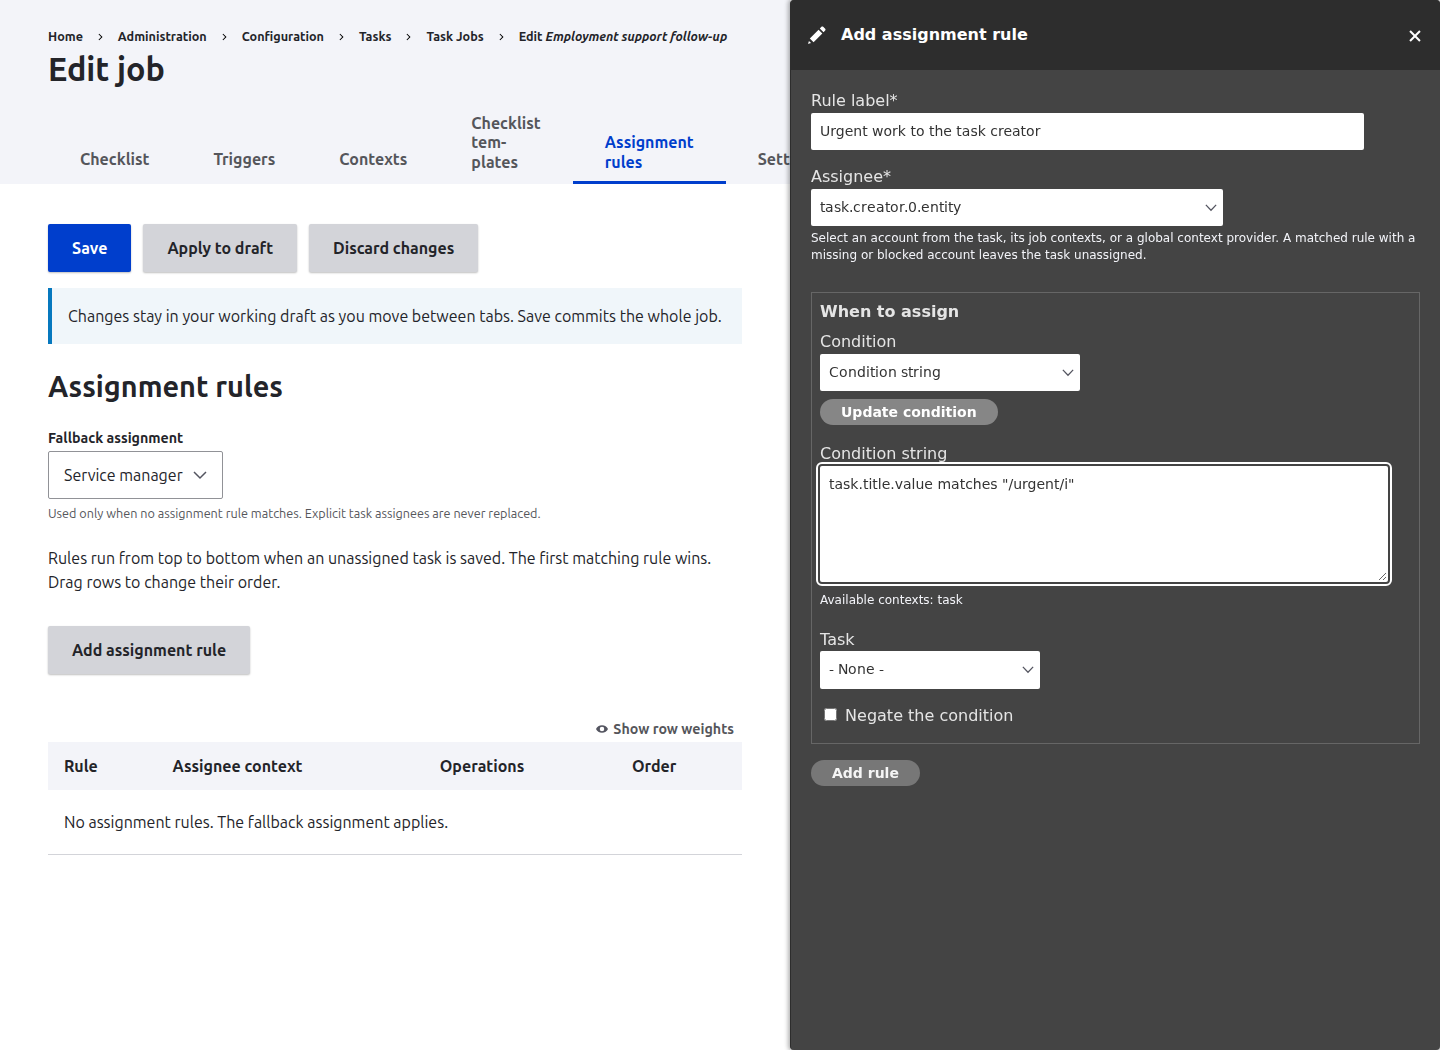
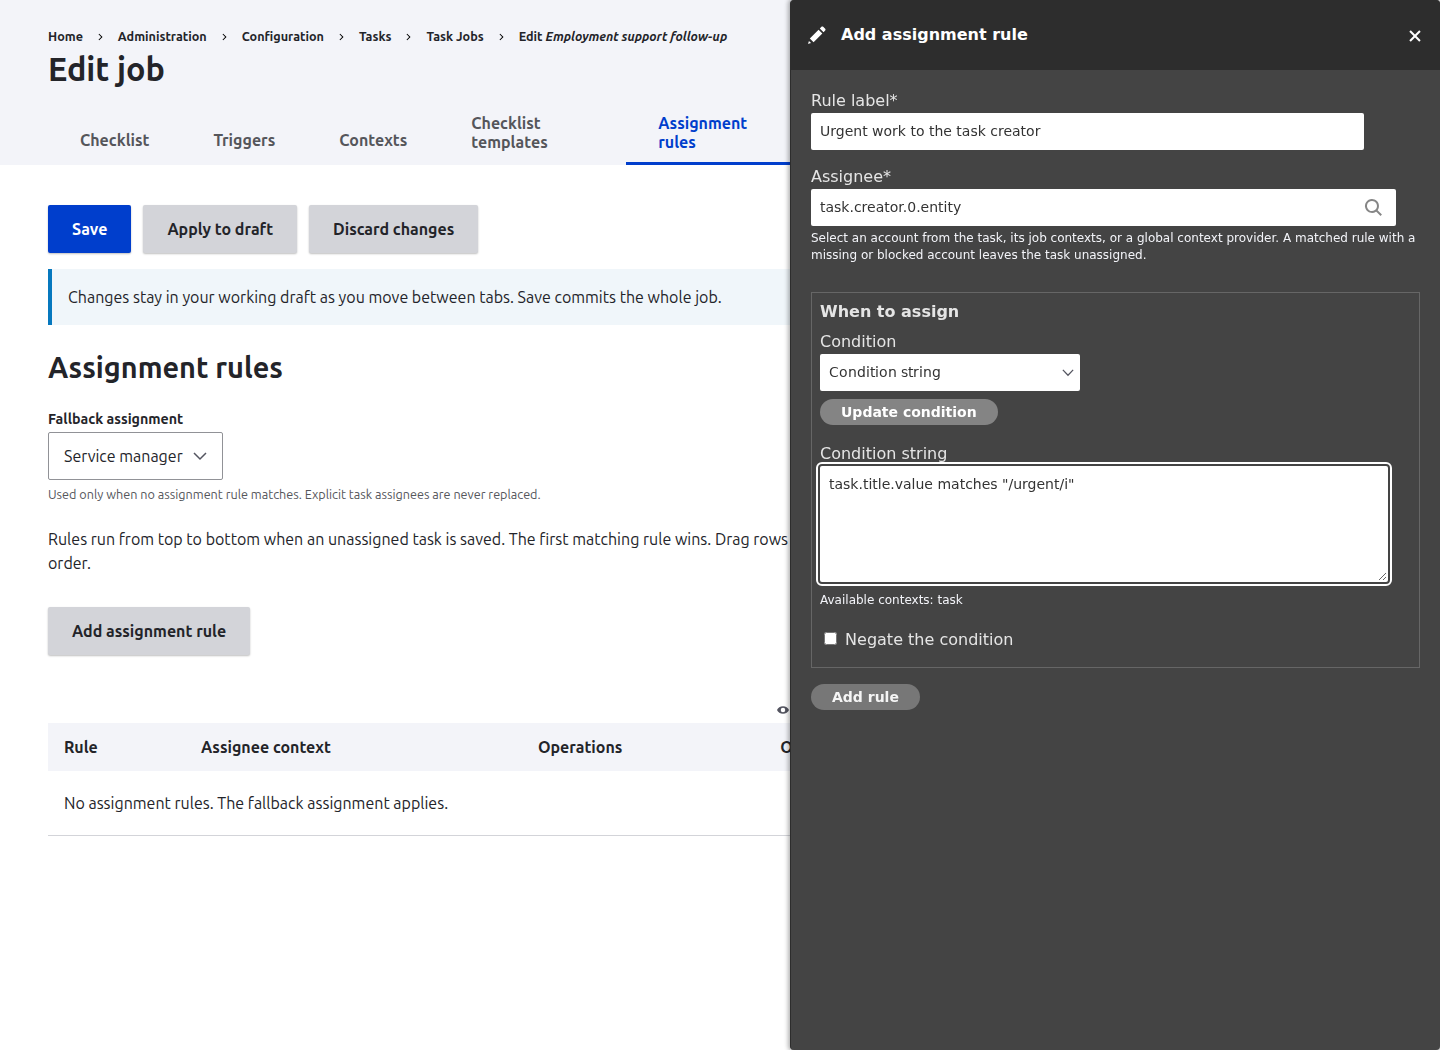
Bind caller condition contexts and use enhanced assignment widgets

diff --git a/modules/data/checklist/src/ChecklistConditionEvaluator.php b/modules/data/checklist/src/ChecklistConditionEvaluator.php
@@ -4,6 +4,8 @@ namespace Drupal\checklist;
 
 use Drupal\Component\Plugin\Exception\MissingValueContextException;
 use Drupal\Core\Condition\ConditionManager;
+use Drupal\Core\Condition\ConditionInterface;
+use Drupal\typed_data_plus\Plugin\Condition\ConditionGroup;
 use Drupal\Core\Plugin\Context\ContextHandlerInterface;
 use Drupal\typed_data_plus\Plugin\Condition\ContextAwareCondition;
 
@@ -46,18 +48,12 @@ class ChecklistConditionEvaluator {
     if (!is_string($configuration['id'] ?? NULL) || $configuration['id'] === '') {
       throw new \InvalidArgumentException('Checklist conditions require a plugin ID.');
     }
-    $condition = $this->conditionManager->createInstance($configuration['id'], $configuration);
     $contexts = $this->collector->collectRuntimeContexts($checklist);
     // Provide a simple root name for condition-string property traversal.
     $contexts['checklist'] = $contexts['checklist:entity'];
+    $condition = $this->createCondition($configuration, $contexts);
     try {
       if ($condition instanceof ContextAwareCondition) {
-        $definitions = [];
-        foreach ($contexts as $name => $context) {
-          $definitions[$name] = clone $context->getContextDefinition();
-          $definitions[$name]->setRequired(FALSE);
-        }
-        $condition->setExpectedContexts($definitions);
         $condition->setRuntimeContexts($contexts);
       }
       else {
@@ -68,6 +64,33 @@ class ChecklistConditionEvaluator {
     catch (MissingValueContextException) {
       return NULL;
     }
+  }
+
+  /**
+   * Creates a condition with fixed caller contexts, including nested groups.
+   *
+   * Workflow-supplied contexts are sources, not remappable plugin inputs.
+   * Intrinsic inputs declared by a plugin retain normal context mapping.
+   */
+  public function createCondition(array $configuration, array $contexts, int $depth = 0): ConditionInterface {
+    if ($depth >= 64) {
+      throw new \InvalidArgumentException('Condition groups are nested too deeply.');
+    }
+    $condition = $this->conditionManager->createInstance($configuration['id'], $configuration);
+    if ($condition instanceof ContextAwareCondition) {
+      $definitions = array_map(static fn($context) => (clone $context->getContextDefinition())->setRequired(FALSE), $contexts);
+      $condition->setExpectedContexts($definitions);
+      $fixed = array_diff_key($contexts, $condition->getPluginDefinition()['context_definitions'] ?? []);
+      $condition->setContextMapping(array_diff_key($condition->getContextMapping(), $fixed));
+    }
+    if ($condition instanceof ConditionGroup) {
+      $configuration = $condition->getConfiguration();
+      foreach ($configuration['conditions'] as $key => $child) {
+        $configuration['conditions'][$key] = $this->createCondition($child, $contexts, $depth + 1)->getConfiguration();
+      }
+      $condition->setConfiguration($configuration);
+    }
+    return $condition;
   }
 
   /**

diff --git a/modules/data/checklist/src/Form/ConditionConfigurationForm.php b/modules/data/checklist/src/Form/ConditionConfigurationForm.php
@@ -3,6 +3,8 @@
 namespace Drupal\checklist\Form;
 
 use Drupal\Core\Condition\ConditionManager;
+use Drupal\checklist\ChecklistConditionEvaluator;
+use Drupal\Core\Plugin\Context\ContextHandlerInterface;
 use Drupal\Core\Form\FormStateInterface;
 use Drupal\Core\Form\SubformState;
 use Drupal\Core\StringTranslation\StringTranslationTrait;
@@ -17,7 +19,7 @@ class ConditionConfigurationForm {
 
   use StringTranslationTrait;
 
-  public function __construct(protected ConditionManager $manager) {}
+  public function __construct(protected ConditionManager $manager, protected ChecklistConditionEvaluator $evaluator, protected ContextHandlerInterface $contextHandler) {}
 
   /**
    * Builds a condition from definitions only; it never evaluates live data.
@@ -53,6 +55,17 @@ class ConditionConfigurationForm {
     $state->setTemporaryValue('gathered_contexts', $contexts);
     $element['settings'] = $plugin->buildConfigurationForm($element['settings'], $substate);
     $state->setTemporaryValue('gathered_contexts', $previous);
+    if (isset($element['settings']['context_mapping'])) {
+      if (method_exists($this->contextHandler, 'getContextAssignmentElement')) {
+        $element['settings']['context_mapping'] = $this->contextHandler->getContextAssignmentElement($plugin, $contexts);
+      }
+      if ($plugin instanceof ContextAwareCondition) {
+        $fixed = array_diff_key($contexts, $plugin->getPluginDefinition()['context_definitions'] ?? []);
+        foreach ($fixed as $name => $context) {
+          unset($element['settings']['context_mapping'][$name]);
+        }
+      }
+    }
     if ($plugin instanceof ConditionGroup) {
       $children = $element['#condition_configuration']['conditions'] ?? [];
       $parents = [...$element['#parents'], 'children'];
@@ -77,11 +90,7 @@ class ConditionConfigurationForm {
    * Creates the plugin with its containing checklist's expected contexts.
    */
   protected function plugin(array $element) {
-    $plugin = $this->manager->createInstance($element['#condition_id'], $element['#condition_configuration']);
-    if ($plugin instanceof ContextAwareCondition) {
-      $plugin->setExpectedContexts(array_map(static fn($context) => (clone $context->getContextDefinition())->setRequired(FALSE), $element['#condition_contexts']));
-    }
-    return $plugin;
+    return $this->evaluator->createCondition(['id' => $element['#condition_id']] + $element['#condition_configuration'], $element['#condition_contexts']);
   }
 
   /**

diff --git a/modules/data/checklist/tests/src/Kernel/ConditionConfigurationFormTest.php b/modules/data/checklist/tests/src/Kernel/ConditionConfigurationFormTest.php
@@ -127,4 +127,53 @@ class ConditionConfigurationFormTest extends KernelTestBase {
     $this->assertTrue($state->hasAnyErrors());
   }
 
+  /**
+   * Caller sources are fixed; actual plugin inputs use the enhanced widget.
+   */
+  public function testFixedSourcesAndMappingWidget(): void {
+    $editor = $this->container->get('checklist.condition_configuration_form');
+    $state = new FormState();
+    $contexts = ['source' => new Context(new ContextDefinition('string', 'Source', FALSE), 'yes')];
+    $element = $editor->build(['#parents' => ['gate']], $state, [
+      'id' => 'condition_string',
+      'condition_string' => 'source == "yes"',
+      'context_mapping' => ['source' => 'other'],
+    ], $contexts);
+    $this->assertArrayNotHasKey('source', $element['settings']['context_mapping']);
+    $this->assertArrayHasKey('condition_string', $element['settings']);
+    $element = $editor->build(['#parents' => ['gate']], $state, [
+      'id' => 'user_role',
+      'context_mapping' => ['user' => '@user.current_user_context:current_user'],
+    ], $contexts);
+    $input = $element['settings']['context_mapping']['user'];
+    $this->assertSame('textfield', $input['#type']);
+    $this->assertSame('typed_data_context_assignment.data_select_autocomplete', $input['#autocomplete_route_name']);
+    $this->assertSame('@user.current_user_context:current_user', $input['#default_value']);
+  }
+
+  /**
+   * Saved mappings cannot redirect caller-supplied contexts inside groups.
+   */
+  public function testNestedFixedContexts(): void {
+    $contexts = [
+      'source' => new Context(new ContextDefinition('string', 'Source', FALSE), 'yes'),
+      'other' => new Context(new ContextDefinition('string', 'Other', FALSE), 'no'),
+    ];
+    $condition = $this->container->get('checklist.condition_evaluator')->createCondition([
+      'id' => 'condition_and',
+      'context_mapping' => ['source' => 'other'],
+      'conditions' => [
+        [
+          'id' => 'condition_string',
+          'condition_string' => 'source == "yes"',
+          'context_mapping' => ['source' => 'other'],
+        ],
+      ],
+    ], $contexts);
+    $condition->setRuntimeContexts($contexts);
+    $this->assertTrue($condition->execute());
+    $this->assertArrayNotHasKey('source', $condition->getContextMapping());
+    $this->assertArrayNotHasKey('source', $condition->getConfiguration()['conditions'][0]['context_mapping']);
+  }
+
 }

diff --git a/modules/data/task/contrib/job/src/AssignmentRules.php b/modules/data/task/contrib/job/src/AssignmentRules.php
@@ -3,7 +3,7 @@
 namespace Drupal\task_job;
 
 use Drupal\Component\Plugin\Exception\MissingValueContextException;
-use Drupal\Core\Condition\ConditionManager;
+use Drupal\checklist\ChecklistConditionEvaluator;
 use Drupal\Core\Plugin\Context\Context;
 use Drupal\Core\Plugin\Context\ContextDefinition;
 use Drupal\Core\Plugin\Context\ContextHandlerInterface;
@@ -20,7 +20,7 @@ class AssignmentRules {
   /**
    * Constructs the rule evaluator.
    */
-  public function __construct(protected ConditionManager $conditions, protected ContextHandlerInterface $contextHandler) {}
+  public function __construct(protected ChecklistConditionEvaluator $conditions, protected ContextHandlerInterface $contextHandler) {}
 
   /**
    * Supplies definitions for authoring, or current values when a task is given.
@@ -46,10 +46,9 @@ class AssignmentRules {
       return TRUE;
     }
     $config = $configuration['condition'];
-    $condition = $this->conditions->createInstance($config['id'], $config);
+    $condition = $this->conditions->createCondition($config, $contexts);
     try {
       if ($condition instanceof ContextAwareCondition) {
-        $condition->setExpectedContexts(array_map(static fn($context) => (clone $context->getContextDefinition())->setRequired(FALSE), $contexts));
         $condition->setRuntimeContexts($contexts);
       }
       else {

diff --git a/modules/data/task/contrib/job/src/Form/JobAssignmentRuleForm.php b/modules/data/task/contrib/job/src/Form/JobAssignmentRuleForm.php
@@ -64,8 +64,10 @@ class JobAssignmentRuleForm extends FormBase {
       '#default_value' => $configuration['label'] ?? '',
     ];
     $contexts = $this->rules->contexts($job);
-    $definition = (new AssignmentRule([]))->getContextDefinition('assignee');
-    $form['context_mapping']['assignee'] = $this->contextHandler->getContextSelectElement($contexts, $definition, $configuration['context_mapping']['assignee'] ?? '');
+    $consumer = new AssignmentRule($configuration);
+    $form['context_mapping'] = method_exists($this->contextHandler, 'getContextAssignmentElement')
+      ? $this->contextHandler->getContextAssignmentElement($consumer, $contexts)
+      : ['assignee' => $this->contextHandler->getContextSelectElement($contexts, $consumer->getContextDefinition('assignee'), $configuration['context_mapping']['assignee'] ?? '')];
     $form['context_mapping']['assignee']['#description'] = $this->t('Select an account from the task, its job contexts, or a global context provider. A matched rule with a missing or blocked account leaves the task unassigned.');
     $form['condition'] = $this->conditions->build([
       '#type' => 'fieldset',

diff --git a/modules/data/task/contrib/job/tests/src/Functional/TaskJobEditFormTest.php b/modules/data/task/contrib/job/tests/src/Functional/TaskJobEditFormTest.php
@@ -262,11 +262,13 @@ class TaskJobEditFormTest extends BrowserTestBase {
     $this->submitForm([], 'Apply to draft');
     $this->assertSession()->statusCodeEquals(200);
     $this->clickLink('Add assignment rule');
+    $this->assertSession()->elementAttributeContains('css', '[name="context_mapping[assignee]"]', 'data-autocomplete-path', 'typed_data_context_assignment_autocomplete');
     $this->submitForm([
       'label' => 'Urgent creator',
       'context_mapping[assignee]' => 'task.creator.0.entity',
       'condition[id]' => 'condition_string',
     ], 'Update condition');
+    $this->assertSession()->fieldNotExists('condition[settings][context_mapping][task]');
     $this->submitForm(['condition[settings][condition_string]' => 'task.title.value == "Urgent"'], 'Add rule');
     $this->assertSession()->addressEquals('/admin/config/task/job/follow_up/edit/assignment');
     $this->assertSession()->pageTextContains('Urgent creator');

diff --git a/modules/data/task/contrib/job/tests/src/Kernel/AssignmentRulesTest.php b/modules/data/task/contrib/job/tests/src/Kernel/AssignmentRulesTest.php
@@ -53,7 +53,12 @@ class AssignmentRulesTest extends KernelTestBase {
     $job->addContextDefinition('reviewer', ContextDefinition::create('entity:user')->setLabel('Reviewer')->setRequired(FALSE));
     $special = [
       'label' => 'Urgent reviewer',
-      'condition' => ['id' => 'condition_string', 'condition_string' => 'task.title.value == "Urgent"'],
+      'condition' => [
+        'id' => 'condition_string',
+        'condition_string' => 'task.title.value == "Urgent"',
+        // Imported stale mappings must not replace the task being assigned.
+        'context_mapping' => ['task' => 'other_task'],
+      ],
       'context_mapping' => ['assignee' => 'task_context:reviewer'],
     ];
     $fallback = ['label' => 'Creator rule', 'context_mapping' => ['assignee' => 'task.creator.entity']];

diff --git a/modules/data/task/contrib/job/README.md b/modules/data/task/contrib/job/README.md
@@ -142,7 +142,12 @@ editing a job does not reassign already assigned tasks.
 
 The available contexts are `task`, plus each declared job context as
 `task_context:NAME`. A simple `NAME` alias is also supplied for condition strings,
-except that `task` always means the task entity. Definitions come from the edited
+except that `task` always means the task entity. Caller-supplied contexts are fixed
+sources, including within nested condition groups: the condition editor does not
+ask users to map them again, and stored mappings cannot redirect them. Actual
+plugin inputs (such as User Role’s user input) and the assignee use the enhanced
+Typed Data Plus autocomplete widget when context assignment is enabled, supporting
+property paths and filters. Definitions come from the edited
 job during configuration; runtime values come from that task. Global providers
 remain available through `@provider:context` mappings. For example:
 
@@ -165,8 +170,8 @@ assignment_rules:
 
 Rule keys are stable identifiers (the editor generates UUIDs); sequence order is
 evaluation order. To use the service manager directly in a rule, map to
-`task.service.entity.manager.entity`. The selector UI exposes bounded paths;
-longer/filter selectors can be supplied in configuration. Current user means the
+`task.service.entity.manager.entity`. Autocomplete suggests selectors; property paths and filters can also be entered
+directly. Current user means the
 account performing the save, including a worker's execution account, so use a
 stable task/job context when assignment must not depend on the caller.
 

diff --git a/docs/screenshots/job-assignment-rules/README.md b/docs/screenshots/job-assignment-rules/README.md
@@ -1,6 +1,8 @@
 # Job assignment rules
 
 Real Drupal 10/Claro screenshots captured with Playwright at 1440×1050.
+The condition editor has no Task selector: `task` is supplied by the caller.
+The Assignee field uses Typed Data Plus autocomplete, not a select list.
 Both screenshots were opened and visually inspected; no mockups are used.
 
 To reproduce, open a job's Assignment rules tab and choose Add assignment rule.
